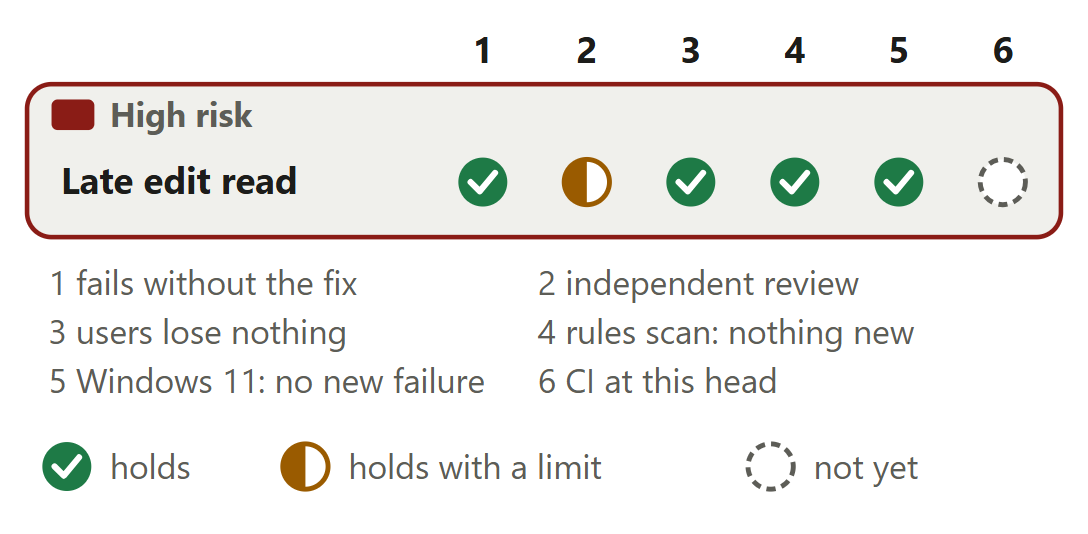
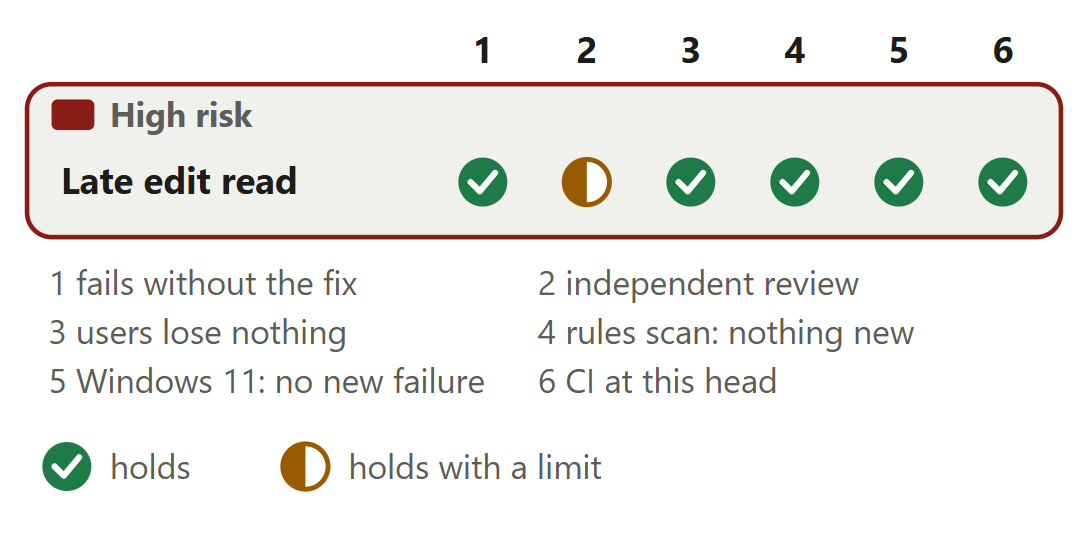
Decision report for #665 (JeanFrancoisGagne/edits-checked-at-result)
edits-checked-at-result/ holds what the pull request's callout links: README.md, the report in GitHub Markdown; report.html, the self-standing page; and 1 image(s).

Changed region(s): [[0.6875, 0.809, 0.8438, 0.8989], [0.875, 0.2996, 0.9688, 0.3895], [0.6875, 0.8989, 0.7188, 0.9288]]

diff --git a/edits-checked-at-result/report.html b/edits-checked-at-result/report.html
@@ -319,7 +319,7 @@ td .src { display: block; font-size: 13px; color: var(--muted); margin-top: 3px;
   </div>
   <p class="rec"><b>We recommend:</b> approve it: of 139 edits through a real daemon, 33 read better than <code>main</code> on Linux x64, 34 on Windows 11, none worse; one kind of late Write stays unchecked, as at <code>main</code>.</p>
   <div class="big">
-    <div><b class="w">1,118 lines</b><span>in 8 files. 532 ship, 586 are tests and text.</span></div><div><b class="w">Careful review</b><span>It changes what is checked: a code owner approves.</span></div><div><b class="w">Waits on CI</b><span>GitHub&#x27;s CI had not run at this head.</span></div><div><b class="w">4 not verified</b><span><a href="#gaps">Part 8</a> lists each.</span></div>
+    <div><b class="w">1,118 lines</b><span>in 8 files. 532 ship, 586 are tests and text.</span></div><div><b class="w">Careful review</b><span>It changes what is checked: a code owner approves.</span></div><div><b class="w">Waits on Nothing</b><span>CI passed at this head; no pull request needs it.</span></div><div><b class="w">4 not verified</b><span><a href="#gaps">Part 8</a> lists each.</span></div>
   </div>
   <p class="state">Read from <a href="https://github.com/neralabs/rerail/pull/665">GitHub</a> on 17 November 2026, at head 3c8939321.</p>
 </header>
@@ -332,9 +332,9 @@ td .src { display: block; font-size: 13px; color: var(--muted); margin-top: 3px;
 <ol class="steps"><li class="first"><div><span class="rf">Read first</span><b><code>reported-preimage.ts</code>: <code>claudeCodeReportedPreimage</code>, <code>placesBeforeWrite</code>, <code>unprovenCaptureBefore</code>, <code>capturedOtherThanMade</code></b><span class="min">12 min</span><span class="x">Can a result place an on-time capture after the tool, or a late one before it?</span></div></li><li><div><b><code>code-rule-bridge.ts</code>: <code>editPreimage</code>, <code>changedSinceWrite</code>, <code>#takeRewindable</code>; <code>runtime.ts</code>: <code>#finishCall</code></b><span class="min">12 min</span><span class="x">Is any edit rolled back that was not read against its capture?</span></div></li></ol>
 <div class="skim"><i></i><div><span class="rf">Then skim</span><b>Tests and text</b><span class="min">8 min</span><span class="x">The bridge&#x27;s new cases name each late shape. <code>steer-strategy.test.ts</code> holds the rollback cases. <code>docs/reference.md</code> gains one paragraph on late edits. The release note says what stays unchecked.</span></div></div>
 </section><section id="grid"><h2>4. Risk against verification</h2>
-<figure class="fg"><svg viewBox="0 0 340 159" role="img" aria-label="The changes by risk, high on top, against six checks. Late edit read, high risk: independent review holds with a limit. CI at this head does not hold yet for every change." class="dg grid"><text x="150" y="13" text-anchor="middle" class="t b">1</text><text x="184" y="13" text-anchor="middle" class="t b">2</text><text x="218" y="13" text-anchor="middle" class="t b">3</text><text x="252" y="13" text-anchor="middle" class="t b">4</text><text x="286" y="13" text-anchor="middle" class="t b">5</text><text x="320" y="13" text-anchor="middle" class="t b">6</text><rect x="1" y="20" width="338" height="50" rx="8" class="bx hib"/><rect x="9" y="25" width="14" height="10" rx="2" class="rk high"/><text x="28" y="34" class="t s b">High risk</text><text x="12" y="56" class="t b">Late edit read</text><g><title>Late edit read, fails without the fix: At 11bd65a7b each fix taken out fails a case with the head&#x27;s tests kept. Linux x64: no fix 5 cases, the tab reading 1, the text comparison 1, the made-file capture 2. Windows 11: 3 of 3 runs, 3 of 3 and 20 of 20. The new and changed cases pass 20 runs in a row on both systems.</title><circle cx="150" cy="52" r="8" class="mh"/><path d="M146 52l3 3l5 -6" class="mt"/></g><g><title>Late edit read, independent review: A second run of 139 edits through a real daemon and the built hook, `main` beside 11bd65a7b, on Linux x64 and Windows 11, found no edit read worse than at `main`. The limit: against 9e0059c26, an earlier commit of this branch, four late Writes read worse, at `main`&#x27;s level.</title><circle cx="184" cy="52" r="7.4" class="ml"/><path d="M184 44.6A7.4 7.4 0 0 0 184 59.4Z" class="mlf"/></g><g><title>Late edit read, users lose nothing: No edit `main` checks is unchecked here: 0 of 139 worse on each system, the 16 secret-like-file rows included. 33 edits `main` leaves unchecked are checked on Linux x64 and 34 on Windows 11. On-time edits and calls made while the rules open read the same at both.</title><circle cx="218" cy="52" r="8" class="mh"/><path d="M214 52l3 3l5 -6" class="mt"/></g><g><title>Late edit read, rules scan: nothing new: The scan the automated reviewer runs, at 11bd65a7b against `main` at 44576f751, with the published 0.1.1 and with Rerail built from `main`: no new finding. All 59 functions added or edited are at cyclomatic complexity 6 or under.</title><circle cx="252" cy="52" r="8" class="mh"/><path d="M248 52l3 3l5 -6" class="mt"/></g><g><title>Late edit read, Windows 11: no new failure: Windows 11 x64, Node 24.21.0, at 11bd65a7b: the 25 test files that import a changed module and two daemon files, 600 passed, 3 skipped, 0 failed, nothing `main` does not fail too; the 139 edits; each fix taken out; 20 runs in a row.</title><circle cx="286" cy="52" r="8" class="mh"/><path d="M282 52l3 3l5 -6" class="mt"/></g><g><title>Late edit read, CI at this head: GitHub&#x27;s CI had not run at 3c8939321 when this was written: the head was not pushed. At 11bd65a7b, CI&#x27;s `Integration tests` job run on Linux x64 passed, 22 of 22 files, 90 tests passed and 6 skipped, and `npm run check` exits 0 at each commit.</title><circle cx="320" cy="52" r="7.4" class="mo"/></g><text x="8" y="89" class="t s">1  fails without the fix</text><text x="168" y="89" class="t s">2  independent review</text><text x="8" y="105" class="t s">3  users lose nothing</text><text x="168" y="105" class="t s">4  rules scan: nothing new</text><text x="8" y="121" class="t s">5  Windows 11: no new failure</text><text x="168" y="121" class="t s">6  CI at this head</text><g><title>holds</title><circle cx="14" cy="145" r="8" class="mh"/><path d="M10 145l3 3l5 -6" class="mt"/></g><text x="28" y="149" class="t s">holds</text><g><title>holds with a limit</title><circle cx="92" cy="145" r="7.4" class="ml"/><path d="M92 137.6A7.4 7.4 0 0 0 92 152.4Z" class="mlf"/></g><text x="106" y="149" class="t s">holds with a limit</text><g><title>does not hold yet</title><circle cx="244.1" cy="145" r="7.4" class="mo"/></g><text x="258.1" y="149" class="t s">not yet</text></svg>
-<figcaption>One half mark: four late Writes read at <code>main</code>&#x27;s level where an earlier commit of this branch checked them. CI had not run at this head.</figcaption></figure>
-<details class="ev"><summary>Each limit, and each check that does not hold yet</summary><div class="table-wrap"><table class="tc tight"><colgroup><col style="width:18%"><col style="width:22%"><col style="width:60%"></colgroup><thead><tr><th>Change</th><th>Check</th><th>Its limit, or why it does not hold yet</th></tr></thead><tbody><tr><td class="k">Late edit read</td><td data-l="Check">independent review</td><td data-l="Its limit, or why it does not hold yet">A second run of 139 edits through a real daemon and the built hook, <code>main</code> beside 11bd65a7b, on Linux x64 and Windows 11, found no edit read worse than at <code>main</code>. The limit: against 9e0059c26, an earlier commit of this branch, four late Writes read worse, at <code>main</code>&#x27;s level.</td></tr><tr><td class="k">Late edit read</td><td data-l="Check">CI at this head</td><td data-l="Its limit, or why it does not hold yet">GitHub&#x27;s CI had not run at 3c8939321 when this was written: the head was not pushed. At 11bd65a7b, CI&#x27;s <code>Integration tests</code> job run on Linux x64 passed, 22 of 22 files, 90 tests passed and 6 skipped, and <code>npm run check</code> exits 0 at each commit.</td></tr></tbody></table></div></details>
+<figure class="fg"><svg viewBox="0 0 340 159" role="img" aria-label="The changes by risk, high on top, against six checks. Late edit read, high risk: independent review holds with a limit. CI at this head holds for every change." class="dg grid"><text x="150" y="13" text-anchor="middle" class="t b">1</text><text x="184" y="13" text-anchor="middle" class="t b">2</text><text x="218" y="13" text-anchor="middle" class="t b">3</text><text x="252" y="13" text-anchor="middle" class="t b">4</text><text x="286" y="13" text-anchor="middle" class="t b">5</text><text x="320" y="13" text-anchor="middle" class="t b">6</text><rect x="1" y="20" width="338" height="50" rx="8" class="bx hib"/><rect x="9" y="25" width="14" height="10" rx="2" class="rk high"/><text x="28" y="34" class="t s b">High risk</text><text x="12" y="56" class="t b">Late edit read</text><g><title>Late edit read, fails without the fix: At 11bd65a7b each fix taken out fails a case with the head&#x27;s tests kept. Linux x64: no fix 5 cases, the tab reading 1, the text comparison 1, the made-file capture 2. Windows 11: 3 of 3 runs, 3 of 3 and 20 of 20. The new and changed cases pass 20 runs in a row on both systems.</title><circle cx="150" cy="52" r="8" class="mh"/><path d="M146 52l3 3l5 -6" class="mt"/></g><g><title>Late edit read, independent review: A second run of 139 edits through a real daemon and the built hook, `main` beside 11bd65a7b, on Linux x64 and Windows 11, found no edit read worse than at `main`. The limit: against 9e0059c26, an earlier commit of this branch, four late Writes read worse, at `main`&#x27;s level.</title><circle cx="184" cy="52" r="7.4" class="ml"/><path d="M184 44.6A7.4 7.4 0 0 0 184 59.4Z" class="mlf"/></g><g><title>Late edit read, users lose nothing: No edit `main` checks is unchecked here: 0 of 139 worse on each system, the 16 secret-like-file rows included. 33 edits `main` leaves unchecked are checked on Linux x64 and 34 on Windows 11. On-time edits and calls made while the rules open read the same at both.</title><circle cx="218" cy="52" r="8" class="mh"/><path d="M214 52l3 3l5 -6" class="mt"/></g><g><title>Late edit read, rules scan: nothing new: The scan the automated reviewer runs, at 11bd65a7b against `main` at 44576f751, with the published 0.1.1 and with Rerail built from `main`: no new finding. All 59 functions added or edited are at cyclomatic complexity 6 or under.</title><circle cx="252" cy="52" r="8" class="mh"/><path d="M248 52l3 3l5 -6" class="mt"/></g><g><title>Late edit read, Windows 11: no new failure: Windows 11 x64, Node 24.21.0, at 11bd65a7b: the 25 test files that import a changed module and two daemon files, 600 passed, 3 skipped, 0 failed, nothing `main` does not fail too; the 139 edits; each fix taken out; 20 runs in a row.</title><circle cx="286" cy="52" r="8" class="mh"/><path d="M282 52l3 3l5 -6" class="mt"/></g><g><title>Late edit read, CI at this head: The run at 3c8939321 on GitHub, read on 17 November 2026 at 22:47 UTC: `CI result` passed. 32 checks passed, both Linux unit test jobs, the five Windows unit test jobs, `Integration tests` and `Real Claude Code, Codex, and Cursor sessions` among them. 4 were skipped: both `Rust engine` jobs and two that run on approval. None failed.</title><circle cx="320" cy="52" r="8" class="mh"/><path d="M316 52l3 3l5 -6" class="mt"/></g><text x="8" y="89" class="t s">1  fails without the fix</text><text x="168" y="89" class="t s">2  independent review</text><text x="8" y="105" class="t s">3  users lose nothing</text><text x="168" y="105" class="t s">4  rules scan: nothing new</text><text x="8" y="121" class="t s">5  Windows 11: no new failure</text><text x="168" y="121" class="t s">6  CI at this head</text><g><title>holds</title><circle cx="14" cy="145" r="8" class="mh"/><path d="M10 145l3 3l5 -6" class="mt"/></g><text x="28" y="149" class="t s">holds</text><g><title>holds with a limit</title><circle cx="92" cy="145" r="7.4" class="ml"/><path d="M92 137.6A7.4 7.4 0 0 0 92 152.4Z" class="mlf"/></g><text x="106" y="149" class="t s">holds with a limit</text></svg>
+<figcaption>One half mark: four late Writes read at <code>main</code>&#x27;s level where an earlier commit of this branch checked them.</figcaption></figure>
+<details class="ev"><summary>Each half mark's limit</summary><div class="table-wrap"><table class="tc tight"><colgroup><col style="width:18%"><col style="width:22%"><col style="width:60%"></colgroup><thead><tr><th>Change</th><th>Check</th><th>It holds with this limit</th></tr></thead><tbody><tr><td class="k">Late edit read</td><td data-l="Check">independent review</td><td data-l="It holds with this limit">A second run of 139 edits through a real daemon and the built hook, <code>main</code> beside 11bd65a7b, on Linux x64 and Windows 11, found no edit read worse than at <code>main</code>. The limit: against 9e0059c26, an earlier commit of this branch, four late Writes read worse, at <code>main</code>&#x27;s level.</td></tr></tbody></table></div></details>
 </section><section id="changes"><h2>5. The changes</h2>
 <ul class="lines"><li><span class="chip high"><i></i>High risk</span> <b>Late edit read from its result</b>: Of 12 late Claude Code Edits, <code>main</code> checks 1 and this change 12, on Linux x64 and Windows 11.</li></ul>
 </section><section id="decisions"><h2>6. The decisions</h2>
@@ -355,7 +355,7 @@ td .src { display: block; font-size: 13px; color: var(--muted); margin-top: 3px;
 <li><b>A late Write whose new file a formatter changed first</b> stays unchecked, as at <code>main</code>: 4 of 139 edits. 9e0059c26 checked them. Closing it needs the file&#x27;s state at the call&#x27;s arrival.</li>
 <li><b>How often a real call arrives late</b> is not measured.</li>
 <li><b>Codex, Cursor, OMP and Pi</b> results do not say what a file held: as at <code>main</code>.</li>
-<li><b>CI on GitHub at this head, and macOS</b> had not run when this was written.</li>
+<li><b>macOS</b> never ran.</li>
 </ul>
 <details class="ev"><summary>Four smaller gaps, four limits that stay</summary><ul class="facts">
 <li><b>A whole-file check of a late Edit.</b> With no <code>originalFile</code> and a line a formatter rewrote, a late Edit is checked over its whole file, so the agent can be told of a line it did not write: 2 of 12 late Edits. <code>main</code> checks nothing there.</li>

diff --git a/edits-checked-at-result/README.md b/edits-checked-at-result/README.md
@@ -10,7 +10,7 @@ For [pull request #665](https://github.com/neralabs/rerail/pull/665), head 3c893
 
 | Size | Risk and review | Waits on | Not verified |
 |---|---|---|---|
-| 1,118 lines in 8 files: 532 ship, 586 are tests and text | Careful. It changes what is checked: a code owner approves. | CI. GitHub's CI had not run at this head. | 4 |
+| 1,118 lines in 8 files: 532 ship, 586 are tests and text | Careful. It changes what is checked: a code owner approves. | Nothing. CI passed at this head; no pull request needs it. | 4 |
 
 ## 2. Intent, and the gap
 
@@ -39,16 +39,15 @@ Found on 13 November 2026 with busy Claude Code sessions on a Windows 11 machine
 
 ## 4. Risk against verification
 
-<img src="grid.png" width="544" alt="The changes by risk, high on top, against six checks. Late edit read, high risk: independent review holds with a limit. CI at this head does not hold yet for every change.">
+<img src="grid.png" width="544" alt="The changes by risk, high on top, against six checks. Late edit read, high risk: independent review holds with a limit. CI at this head holds for every change.">
 
-One half mark: four late Writes read at `main`'s level where an earlier commit of this branch checked them. CI had not run at this head.
+One half mark: four late Writes read at `main`'s level where an earlier commit of this branch checked them.
 
-<details><summary>Each limit, and each check that does not hold yet</summary>
+<details><summary>Each half mark's limit</summary>
 
-| Change | Check | Its limit, or why it does not hold yet |
+| Change | Check | It holds with this limit |
 |---|---|---|
 | Late edit read | independent review | A second run of 139 edits through a real daemon and the built hook, `main` beside 11bd65a7b, on Linux x64 and Windows 11, found no edit read worse than at `main`. The limit: against 9e0059c26, an earlier commit of this branch, four late Writes read worse, at `main`'s level. |
-| Late edit read | CI at this head | GitHub's CI had not run at 3c8939321 when this was written: the head was not pushed. At 11bd65a7b, CI's `Integration tests` job run on Linux x64 passed, 22 of 22 files, 90 tests passed and 6 skipped, and `npm run check` exits 0 at each commit. |
 
 </details>
 
@@ -98,7 +97,7 @@ Nothing has to merge first: it holds `main` at 44576f751 and merges with `main` 
 1. **A late Write whose new file a formatter changed first** stays unchecked, as at `main`: 4 of 139 edits. 9e0059c26 checked them. Closing it needs the file's state at the call's arrival.
 2. **How often a real call arrives late** is not measured.
 3. **Codex, Cursor, OMP and Pi** results do not say what a file held: as at `main`.
-4. **CI on GitHub at this head, and macOS** had not run when this was written.
+4. **macOS** never ran.
 
 **Smaller gaps**
 
